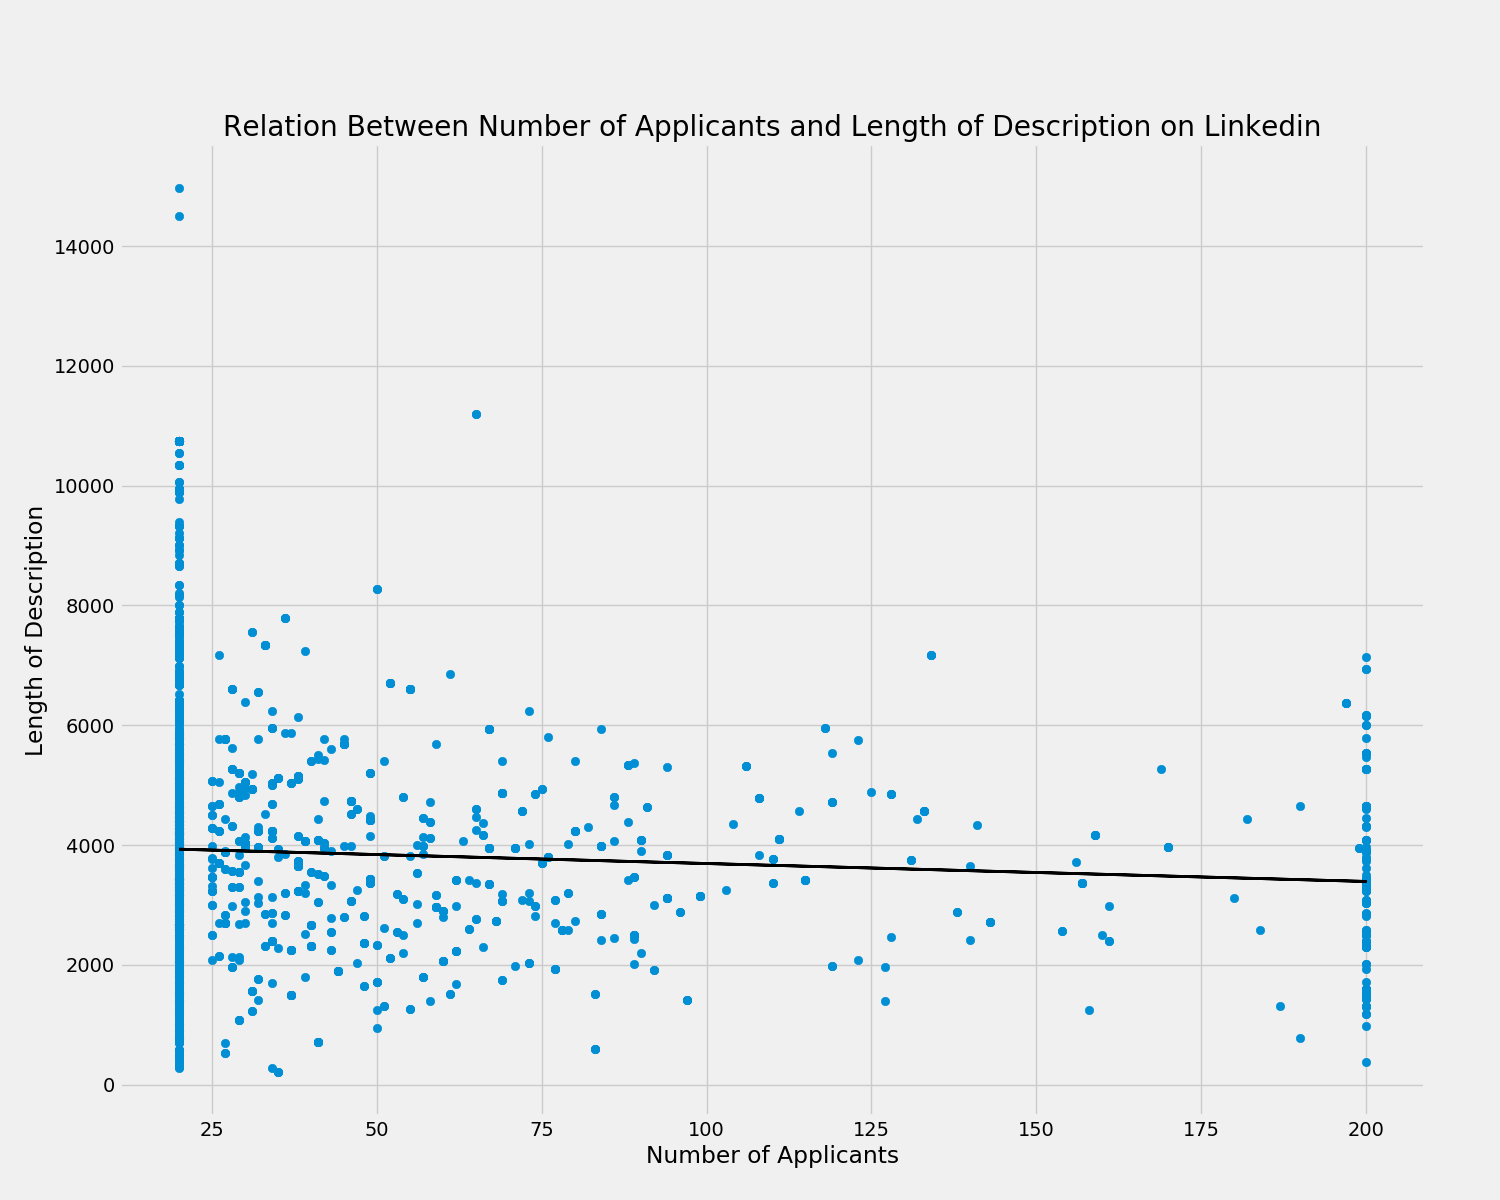
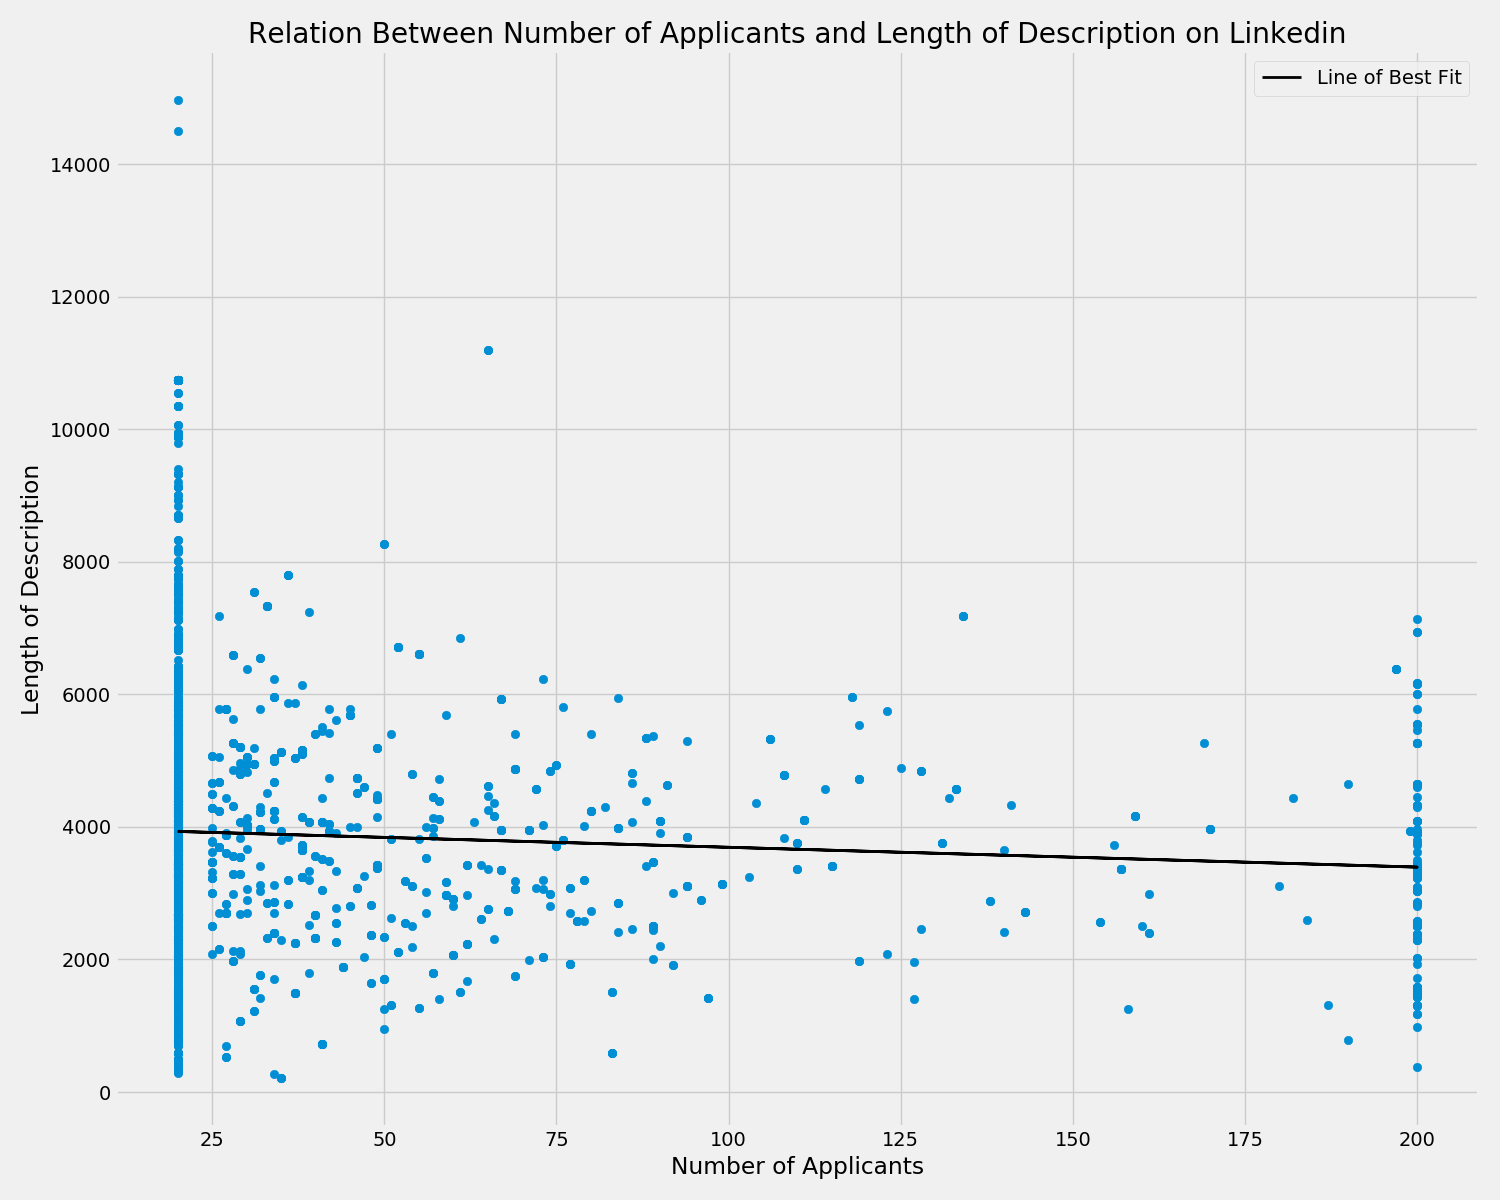
Added more to README

diff --git a/src/statistical_tests.py b/src/statistical_tests.py
@@ -40,6 +40,8 @@ len_descrip = df_all['Length_of_Description'].values
 # I think it's weighing too heavily on < 25 applicants. Very small effect size
 
 r = stats.pearsonr(num_applicants, len_descrip)
+dof = df_all.shape[0] - 2
+# print(f'Degrees of freedom is: {dof}')
 # print(r)
 
 # Taking out the < 25 and > 200s and redoing the correlation. Correlation is no longer significant. Probably due to
@@ -50,6 +52,8 @@ num_applicants_cleaned = df_all_applicants_cleaned['num_applicants'].values
 len_descrip_cleaned = df_all_applicants_cleaned['Length_of_Description'].values
 
 r_cleaned = stats.pearsonr(num_applicants_cleaned, len_descrip_cleaned)
+dof = df_all_applicants_cleaned.shape[0] - 2
+# print(f'Degrees of freedom is: {dof}')
 # print(r_cleaned)
 
 # Comparing the length of description for junior jobs vs jobs that don't mention senior or junior. Nonsignificant.
@@ -67,5 +71,5 @@ senior_or_not_not = senior_or_not_not_df['Length_of_Description'].values
 
 t_test2 = stats.ttest_ind(senior_or_not_senior, senior_or_not_not)
 dof = df_all.shape[0] - 2
-print(f'Degrees of freedom is: {dof}')
-print(t_test2)
+# print(f'Degrees of freedom is: {dof}')
+# print(t_test2)

diff --git a/src/graphing_eda.py b/src/graphing_eda.py
@@ -31,7 +31,9 @@ ax.set_xlabel('Number of Applicants')
 ax.set_ylabel('Length of Description')
 ax.set_title('Relation Between Number of Applicants and Length of Description on Linkedin')
 b, m = polyfit(number_applied, length_of_descrip, 1)
-ax.plot(number_applied, b + m * number_applied, '-', linewidth=2, color='k')
+ax.plot(number_applied, b + m * number_applied, '-', linewidth=2, color='k', label='Line of Best Fit')
+plt.legend()
+plt.tight_layout()
 plt.savefig('../imgs/linkedin_num_applicants_len_descrip.png')
 
 #
@@ -46,7 +48,9 @@ ax.set_xlabel('Number of Applicants')
 ax.set_ylabel('Length of Description')
 ax.set_title('Relation Between Number of Applicants and Length of Description on Linkedin Cleaned')
 b, m = polyfit(num_applied_clean, length_of_descrip, 1)
-ax.plot(num_applied_clean, b + m * num_applied_clean, '-', linewidth=2, color='k')
+ax.plot(num_applied_clean, b + m * num_applied_clean, '-', linewidth=2, color='k', label='Line of Best Fit')
+plt.legend()
+plt.tight_layout()
 plt.savefig('../imgs/linkedin_num_applicants_len_descrip_cleaned.png')
 
 #

diff --git a/README.md b/README.md
@@ -44,8 +44,20 @@ The first variable of interest was the length of the job description. I wanted t
 
 As is shown in the graph, junior jobs had on average the shortest length of description. This was followed by senior level jobs and the longest descriptions tended to be jobs that didn't include senior or junior in the title. The graph shows that these three categories of jobs have different lengths of descriptions, but the question still remains as to whether these differences are big enough to be considered 'real' differences. In other words, we still don't know if these differences are real or if they are likely due to error.
 
-A one way ANOVA was used to test the hypothesis that there are differences in average description length between the three groups (senior, junior, and neither). The omnibus ANOVA model was non-significant indicating that any differences are likely due to chance, *F*(2, 3148) = 1.47, *p* = 0.23. The sample size is so large that it's surprising that these differences are non-significant.
+A one way ANOVA was used to test the hypothesis that there are differences in average description length between the three groups (senior, junior, and neither). The omnibus ANOVA model was non-significant indicating that any differences are likely due to chance, *F*(2, 3148) = 1.47, *p* = .23. The sample size is so large that it's surprising that these differences are non-significant.
 
 It looks like although the total sample size is large, there were only a small portion of jobs that included either junior or senior in the job title. Senior level jobs represented 16.32% of the jobs, junior level jobs represented 0.41% of the jobs, and 83.27% of jobs didn't include either word in the title. This might explain why the differences found were non-significant; because there wasn't a large enough portion of the jobs that included senior or junior in the title. What about the difference between senior level jobs and all other jobs? Because about 16% of jobs were senior, the sample size may be large enough to observe a significant difference.
 
-The hypothesis that there was a differnece in average length of description between senior jobs and non-senior jobs was tested using an indendent samples t-test. The two means were not significantly different, *t*(3148) = 1.47, *p* = 0.14.
+The hypothesis that there was a difference in average length of description between senior jobs and non-senior jobs was tested using an indendent samples t-test. The two means were not significantly different, *t*(3148) = 1.47, *p* = .14.
+
+No evidence that job level (senior or junior) was associated with description length, but what about number of applicants? It could be the case that people tend to prefer jobs with shorter (or longer) job descriptions and choose to apply to those more often. A scatter plot was created to help visualize this question.
+
+![](imgs/linkedin_num_applicants_len_descrip.png)
+
+It looks like there is a small negative correlation between number of applicants and length of description in the sense that as as number of applicants increases, the length of description tends to decrease slightly. It is strange that there are so many job descriptions at exactly 20 and so many at exactly 200. This is because Linkedin only gives the exact number of applicants if the number of applicants is between 25 and 200. If it is under 25, it just says that it is under 25. Similarly, if it is over 200, it just says that it is over 200. Although there is this issue, let's see if this correlation is significant.
+
+The association between number of applicants and length of description is significantly negatively correlated, *r*(3148) = -.07, *p* < .001. The sample size is so large here that even the small effect is significant. Although the effect size is small, we can be confident that this effect is not due to chance. Let's see what this looks like if we take out the jobs that had applicants less than 25 and over 200.
+
+![](imgs/linkedin_num_applicants_len_descrip_cleaned.png)
+
+It still looks like there is a small negative correlation between these two features. Let's test if this correlation is still significant even though we have decreased our sample size substantially. Once the jobs that had under 25 applicants as well as the jobs that had over 200 applicants were taken out, the correlation was no longer significant, *r*(802) = -.01, *p* = .68. Not only did the correlation become non-significant, but the effect size decreased as well. Interesting!
